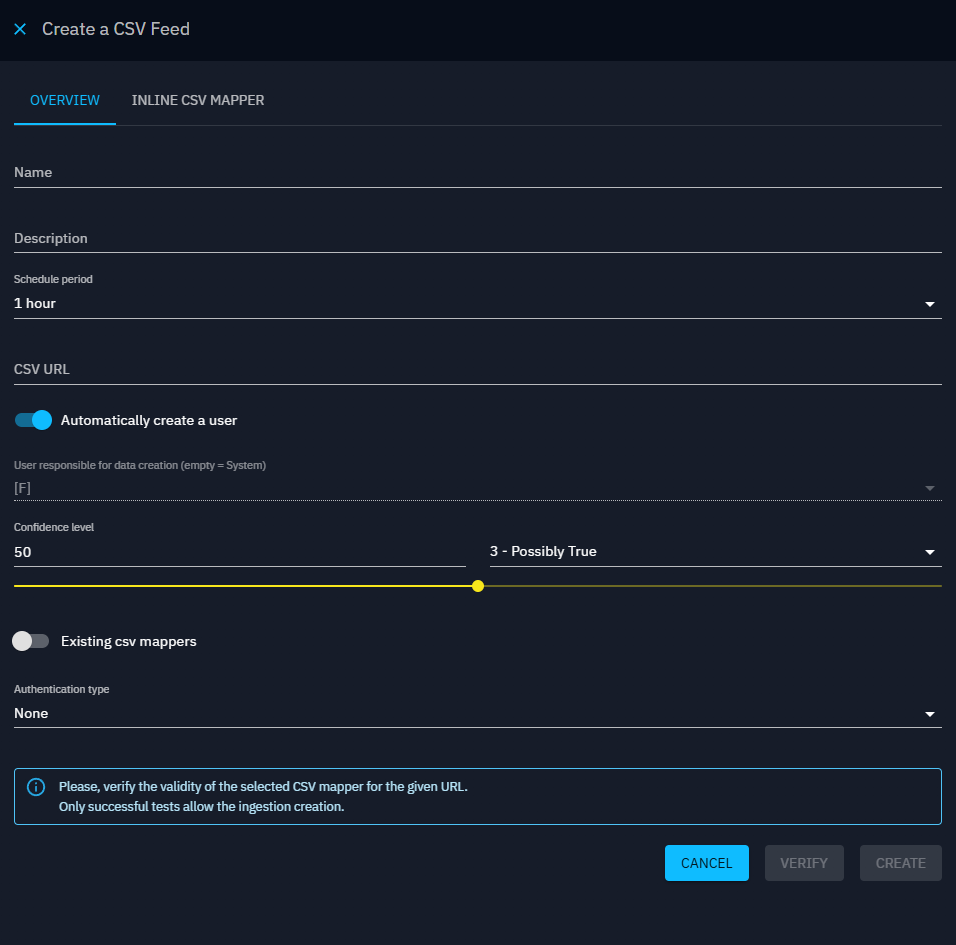
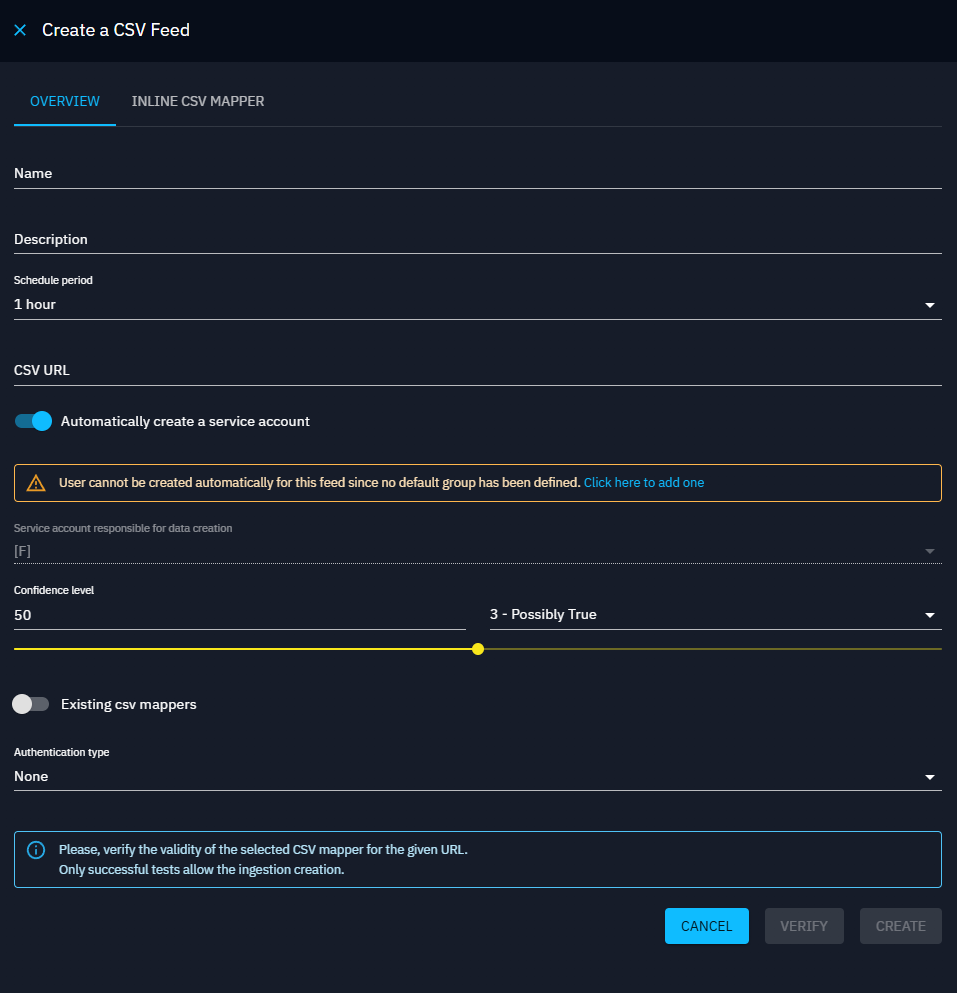
[docs] Service account: add doc (#314) (#316)
* [docs] Service account: add doc (#314)

* [docs] Service account: review (#314)

* [docs] Service account: review (#314)

* [docs] review

* [docs] csv feed doc

---------

diff --git a/docs/usage/import/csv-feed.md b/docs/usage/import/csv-feed.md
@@ -5,16 +5,16 @@ CSV feed ingester enables users to import CSV files exposed on URLs.
 <a id="best-practices-section"></a>
 ## Best practices
 
-In OpenCTI, the "Data > Ingestion" section provides users with built-in functions for automated data import. These functions are designed for specific purposes and can be configured to seamlessly ingest data into the platform. Here, we'll explore the configuration process for the five built-in functions: Live Streams, TAXII Feeds, TAXII Push, RSS Feeds, and JSON/CSV Feeds.
+In OpenCTI, the "Data > Ingestion" section provides Service accounts with built-in functions for automated data import. These functions are designed for specific purposes and can be configured to seamlessly ingest data into the platform. Here, we'll explore the configuration process for the five built-in functions: Live Streams, TAXII Feeds, TAXII Push, RSS Feeds, and JSON/CSV Feeds.
 
 Ensuring a secure and well-organized environment is paramount in OpenCTI. Here are two recommended best practices to enhance security, traceability, and overall organizational clarity:
 
-1. Create a dedicated user for each source: Generate a user specifically for feed import, following the convention `[F] Source name` for clear identification. Assign the user to the "Connectors" group to streamline user management and permission related to data creation. Please [see here](../../deployment/connectors.md#connector-token-section) for more information on this good practice.
+1. Create a dedicated Service account for each source: Generate a technical user (or Service account) specifically for feed import, following the convention `[F] Source name` for clear identification. Assign the Service account to the "Connectors" group to streamline user management and permission related to data creation. Please [see here](../../deployment/connectors.md#connector-token-section) for more information on this good practice.
 2. Establish a dedicated Organization for the source: Create an organization named after the data source for clear identification. Assign the newly created organization to the "Default author" field in feed import configuration if available.
 
-By adhering to these best practices, you ensure independence in managing rights for each import source through dedicated user and organization structures. In addition, you enable clear traceability to the entity's creator, facilitating source evaluation, dashboard creation, data filtering and other administrative tasks.
+By adhering to these best practices, you ensure independence in managing rights for each import source through dedicated service account and organization structures. In addition, you enable clear traceability to the entity's creator, facilitating source evaluation, dashboard creation, data filtering and other administrative tasks.
 
-Under Settings > Policies, you can now define a default group for the ingestion user, allowing you to create a specific user when setting up the CSV Feed.
+Under Settings > Policies, you can now define a default group for the ingestion user, allowing you to create a specific Service accounts when setting up the CSV Feed.
 
 ![Select default group in settings](../assets/settings_default_group.png)
 
@@ -35,7 +35,7 @@ Here's a step-by-step guide to configure Csv Feeds:
 
 Additional configuration options:
 
-- User responsible for data creation: Define the user responsible for creating data received from this CSV feed. Best practice is to dedicate one user per source for organizational clarity by clicking on "Create automatic user". The name is not editable (unless you change the feed's name) but you must define a confidence level (between 0 and 100) to set this confidence to the user that will be automatically created. _Important_ : before clicking on "Create automatic user" you must define a default group for ingestion users, in the Settings part.
+- Service account responsible for data creation: Define the Service account responsible for creating data received from this CSV feed. Best practice is to dedicate one Service account per source for organizational clarity by clicking on "Automatically create a service account". The name is not editable (unless you change the feed's name) but you must define a confidence level (between 0 and 100) to set this confidence to the Service account that will be automatically created. _Important_ : before clicking on "Automatically create a service account" you must define a default group for ingestion users, in the Settings part.
 - Description
 
 ![csv-feeds-creation.png](../assets/csv-feeds-creation.png)

diff --git a/docs/administration/users.md b/docs/administration/users.md
@@ -74,7 +74,37 @@ You can manage the users in `Settings > Security > Users`. If you are using [Sin
 
 To create a user, just click on the `+` button:
 
-![Create user](assets/create-user-new.png)
+![Create user](assets/create_user.png)
+
+# Service Account
+
+Service Account aims administrators to create technical users. Service accounts do not have any password which therefore prevent them from logging in via UI.
+
+## Create a Service Account
+It is possible to create `Service accounts`. These accounts are specifically designed for technical users, such as connectors.
+
+When creating a service account, an email address is automatically generated for the `Service account` if not provided by the user who creates the service account. A password is automatically generated for the `Service account` and it is not stored in the database. Technical users like connectors will authenticate using their API tokens.
+Although these accounts generally do not receive emails, it is possible to add a personalized email.
+
+## Main difference between a Service Account & a user
+
+- A Service Account will be considered to belong to the platform's organization to ensure it can access the data: service account when logging in, will be considered as users of the main platform organisation, in addition of their current organization. This will be done by manually adding **the platform org to the user's session**. It will not be possible to change this behavior. Therefore, even if you change your main platform organization, your service account will always be considered to be part of the main platform organisation, ensuring that you do not have any issue ingesting data. Removing your platform org will ensure that your service account does not belong anymore to the platform organisation, unless a specific relation between the organisation and the service account has been created.
+- A Service Account will not be able to log in via Email & Password since the password of the service account will not exists in DB.
+- A service account will not be able to receive emails.
+
+## Convert a User into a Service Account & vice-versa
+
+It is possible to convert a user into a service account and ice-versa.
+Two options are possible:
+- through massive operations.
+- directly in the user/service account overview.
+
+![Convert User](assets%2Fconvert_user.png)
+
+Converting a user into a service account will simply remove its password from our Database. The "new" service account will still have the same ID & same Token than the user, to preserve data consistency.
+
+Converting back a service account into a user will also be possible. However, if the service account has directly been created as a service account without adding a specific email address, the "new" user won't be able to trigger a password reset flow to get a new password. We therefore advise you to first provide a valid email address to your "new" user, so that the "new" user can trigger the reset password flow by himself/herself.
+
 
 ### Manage a user
 
